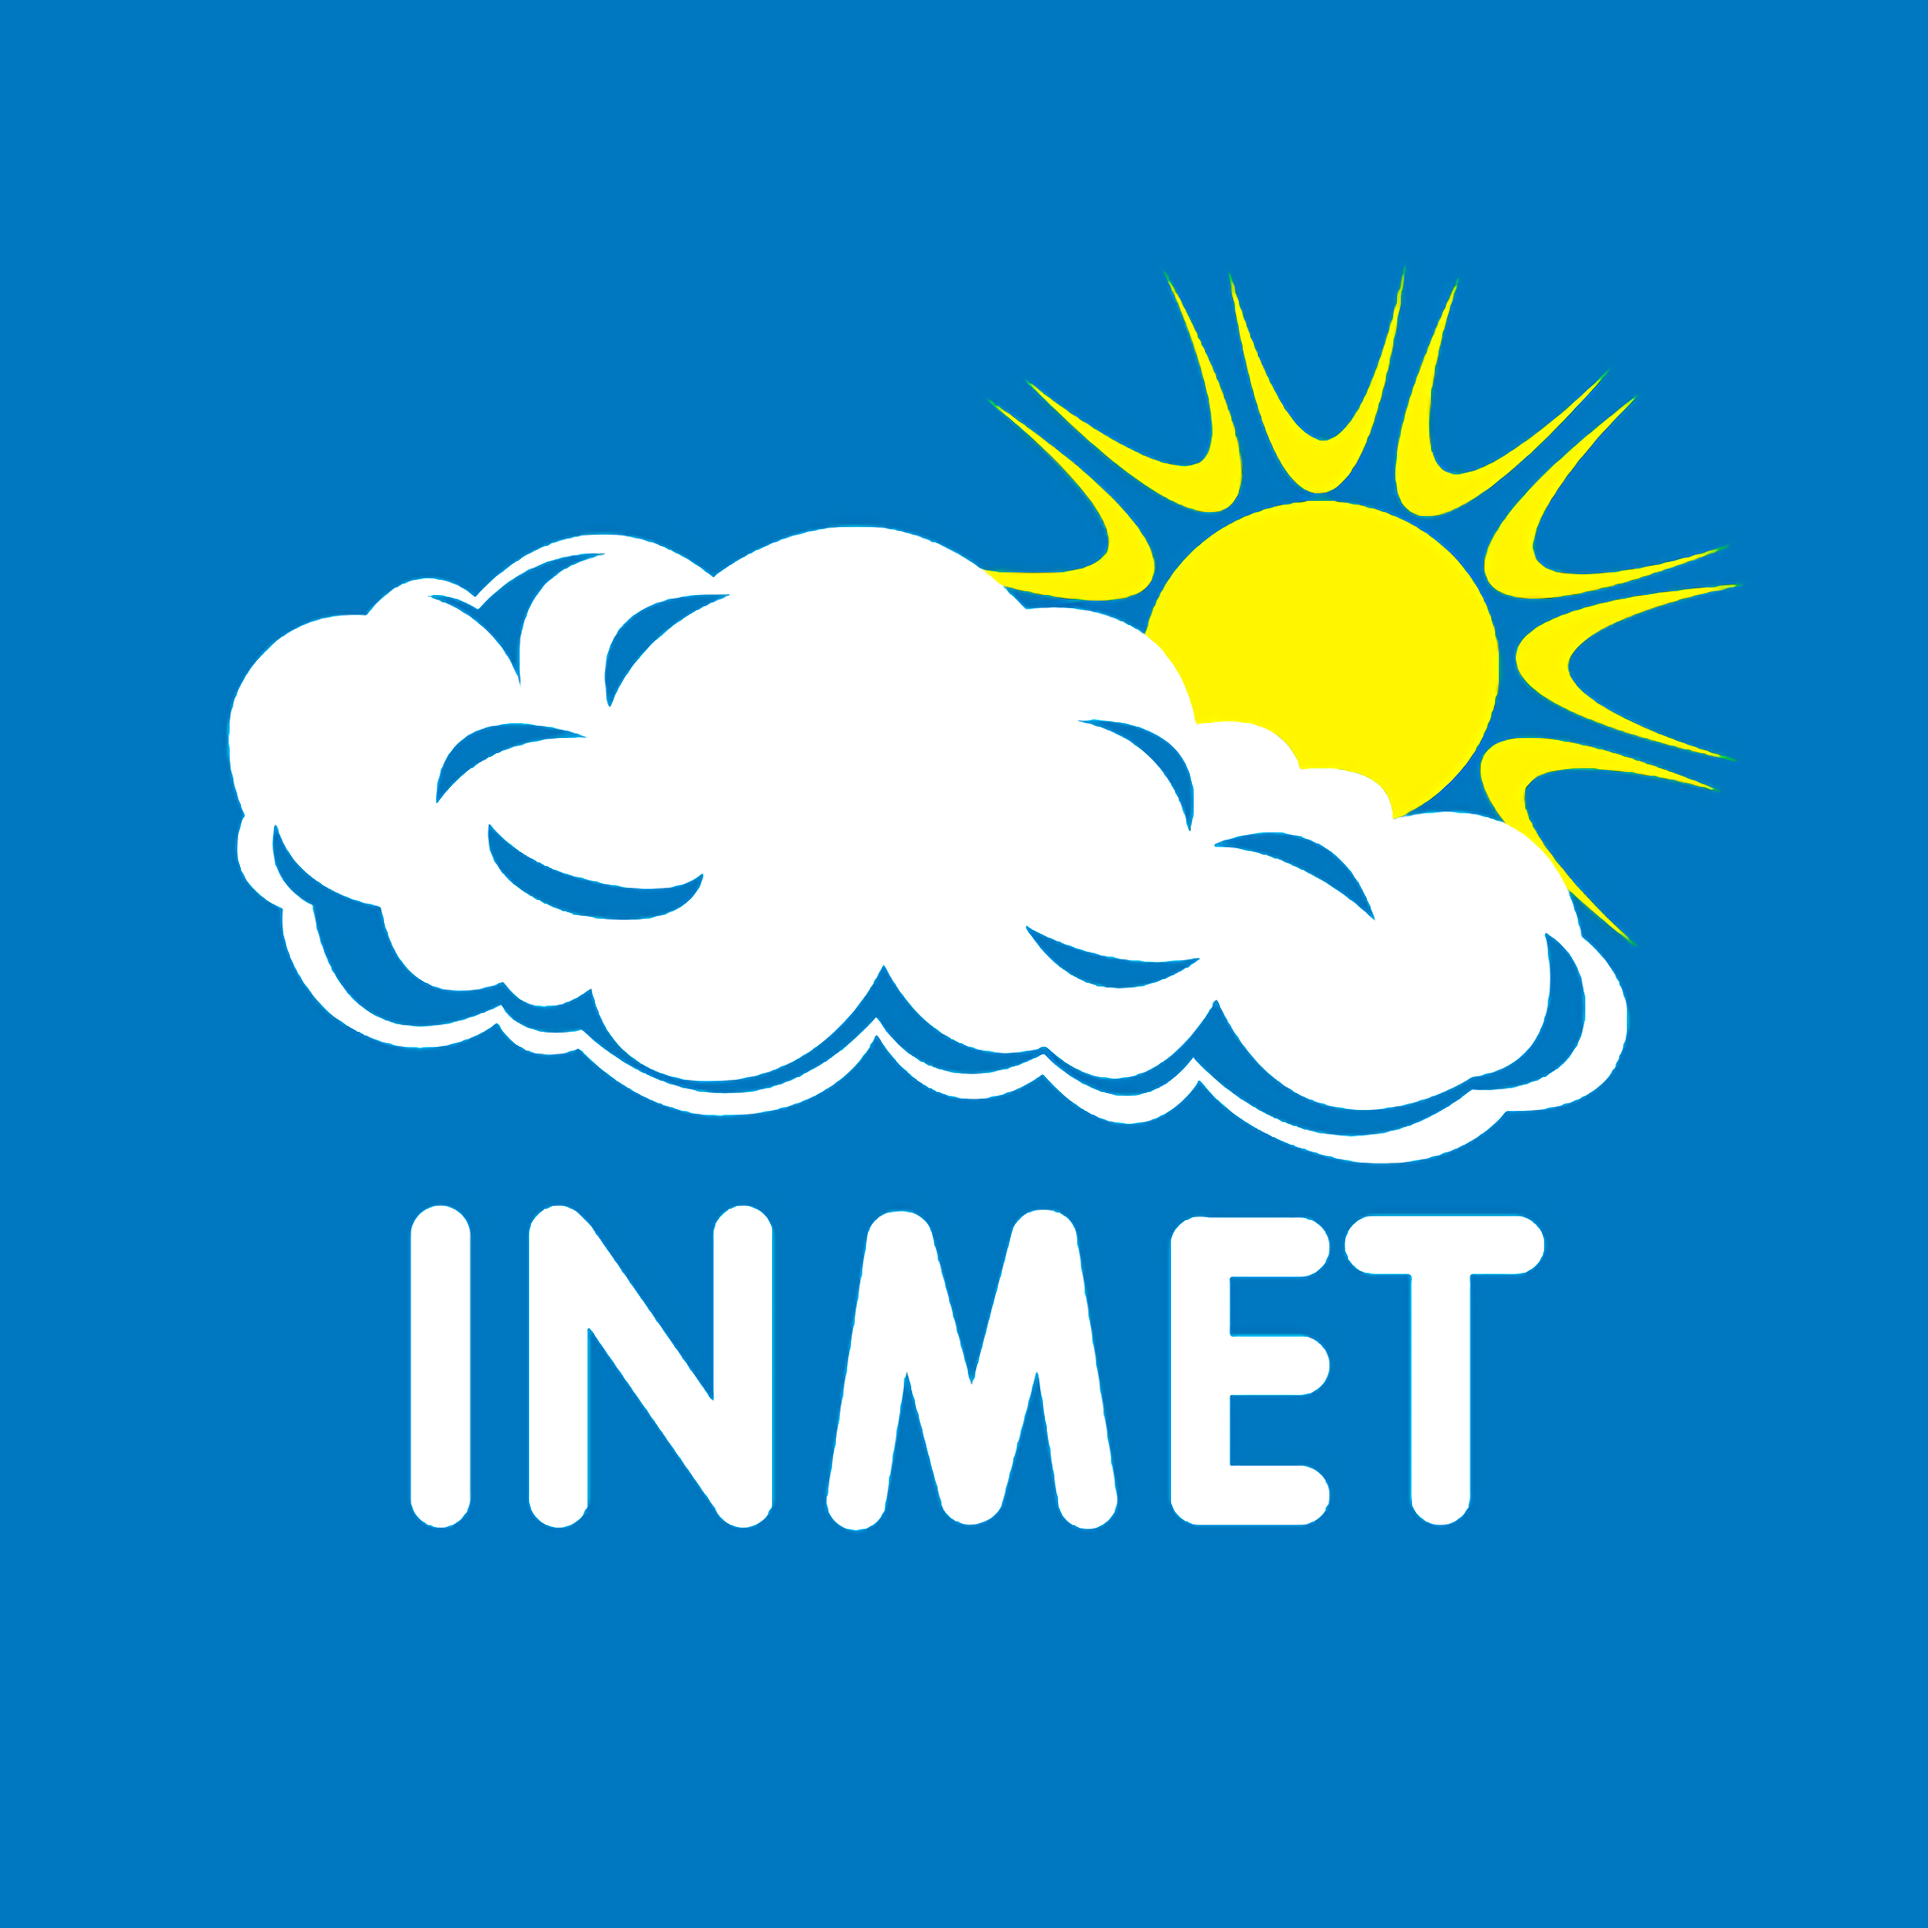
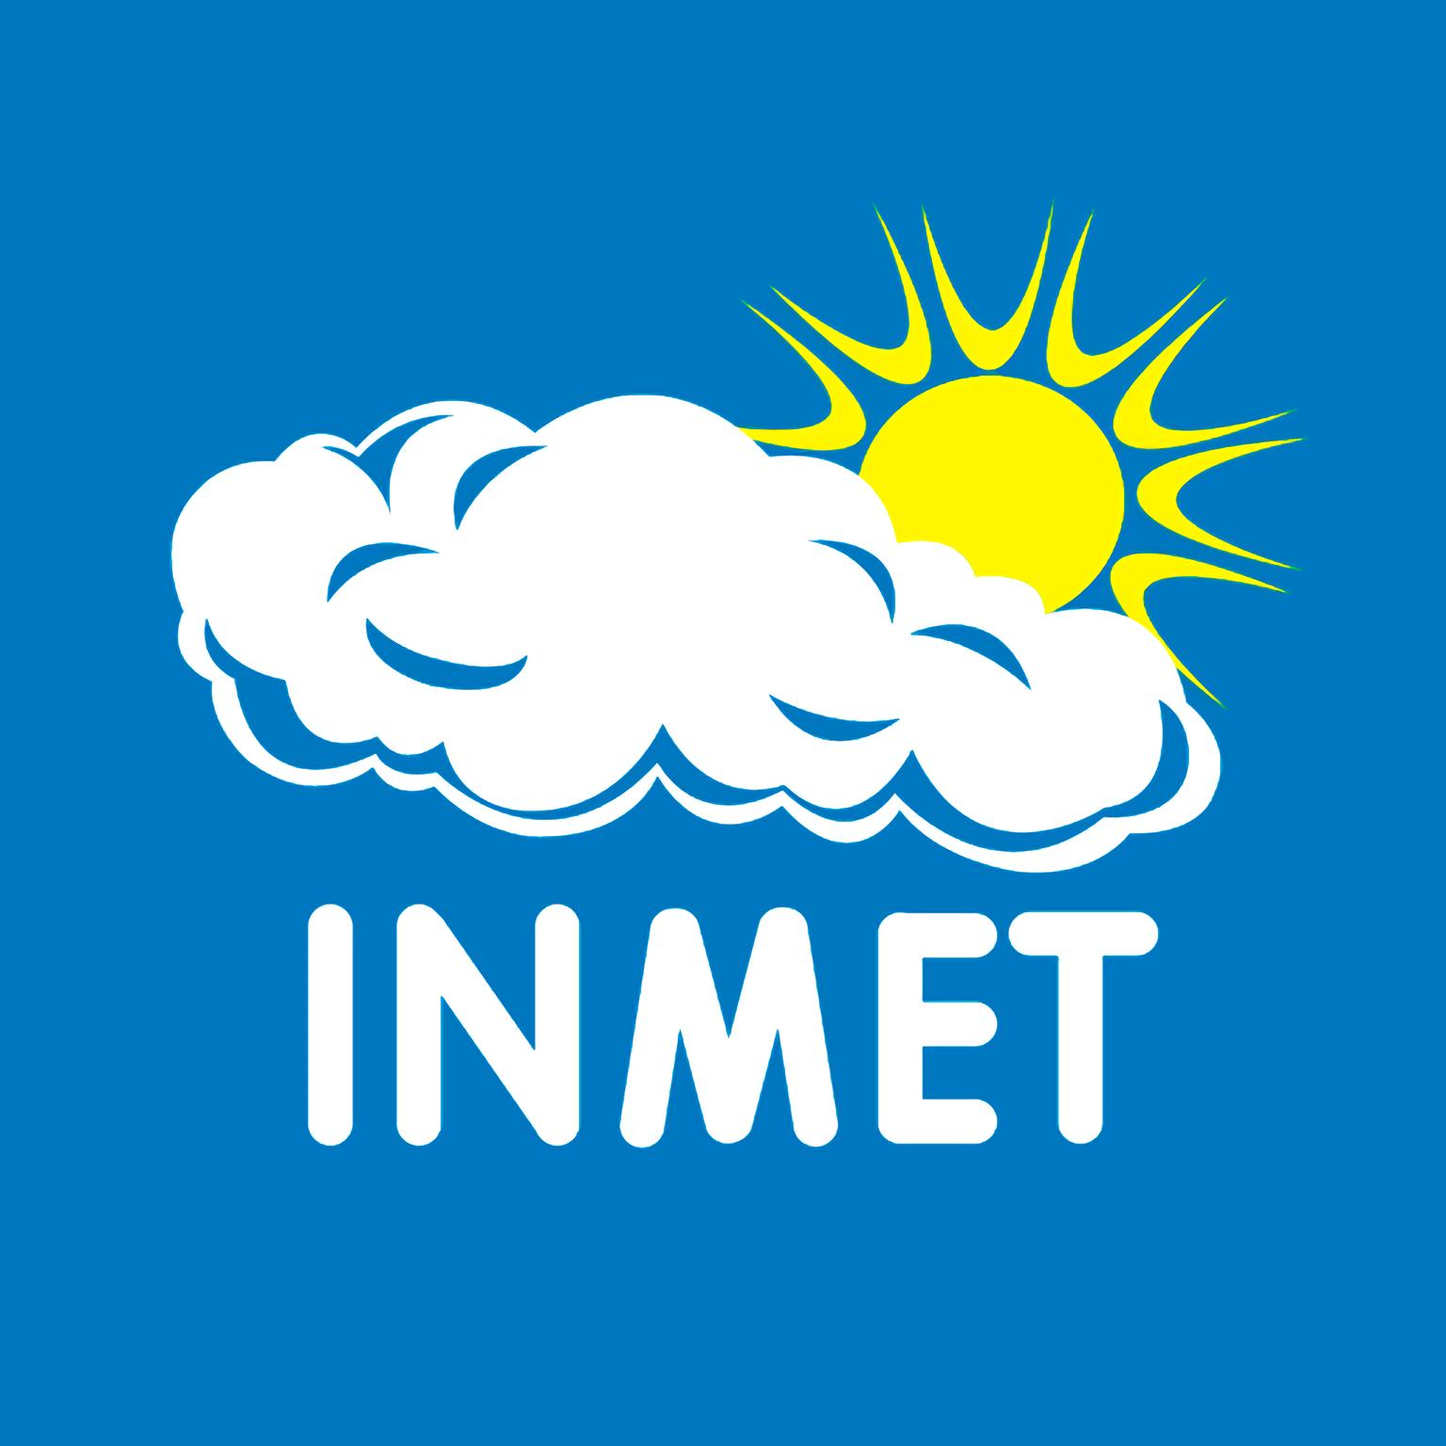
Improve README and create .env example
Compress boticon

diff --git a/README.md b/README.md
@@ -1,18 +1,51 @@
-# [INMETBot](https://t.me/INMETBot)
-[@INMETBot](https://t.me/INMETBot) - Bot no Telegram para solicitar imagens de satélites e alertas recentes (não filiado ao INMET)
+<h1 align="center">
+  <a href="https://t.me/INMETBot">🛰 INMETBot</a>
+</h1>
 
-## About
-This is a bot that scrapes INMET's website and makes information available through [Telegram](http://telegram.org/). It runs on Python 3 and uses MongoDB. You can [try it here](https://telegram.me/INMETBot).
+<h4 align="center"><a href="https://t.me/INMETBot">@INMETBot</a> - Bot no Telegram para solicitar imagens de satélites e alertas recentes (não filiado ao INMET).
 
-## Running locally
-First, clone the repository and create a virtual environment for the project (to ensure you won't have problems with your other libraries versions):
+Telegram bot to fetch satellite images and recent alerts (not affiliated to INMET).
+
+</h4>
+
+<h5 align="center">
+
+[![Telegram bot](https://img.shields.io/badge/Telegram-bot-0088CC)](https://t.me/INMETBot) [![Heroku App Status](https://heroku-shields.herokuapp.com/inmetbot)](https://inmetbot.herokuapp.com) [![License: GPL v3](https://img.shields.io/badge/License-GPLv3-orange.svg)](https://www.gnu.org/licenses/gpl-3.0) ![GitHub code size in bytes](https://img.shields.io/github/languages/code-size/atilioa/inmetbot)
+
+</h5>
+
+## ℹ About
+
+Telegram bot that scrapes INMET's website and makes information available through a [Telegram](http://telegram.org/) bot. It runs on Python 3 and uses MongoDB. You can [try it here](https://telegram.me/INMETBot) (only available in pt-BR).
+
+## 📖 Examples (in pt-BR)
+
+- Creating GIF made of the _10_ last images from the enhanced water vapor satellite:
+
+  ![Telegram bot](.github/vpr.png)
+
+- Subscribing to be notified about alerts affecting subscribed CEPs (zip codes):
+
+  ![Telegram bot](.github/subscribe.png)
+
+- Getting the alerts map from Alert-AS:
+
+  ![Telegram bot](.github/map.png)
+
+You can learn more with the `/help` command.
+
+## 🏡 Running locally
+
+First, clone the repository and create a virtual environment for the project (to ensure you won't have problems with your libraries versions). Using `pipenv`:
 
 `pipenv install` - Create virtual environment and install dependencies
 
 `pipenv shell` - Activate virtual environment
 
-Some of the bot's functionality depends on being connected to a MongoDB database. If you wish to use your own database, just set its URI connection string to a environment variable in a `.env` file (in this case, exit and then activate the virtual environment again) or in your environment variables.
+Some of the bot's functionality depends on being connected to a MongoDB database. If you wish to use your own database, just set the `INMET_MONGO_URI` environment variable in the `.env.example` file to your URI connection string or, alternatively, set it as an environment variable of the system hosting the bot.
 
-With everything set, you can start the bot with
+You'll be doing the same thing for the `TELEGRAM_INMETBOT_APIKEY` environment variable. You can get your token/key with [BotFather](t.me/BotFather), the official way to create bots on Telegram.
+
+With everything set, you can start the bot with:
 
 `python main.py`
